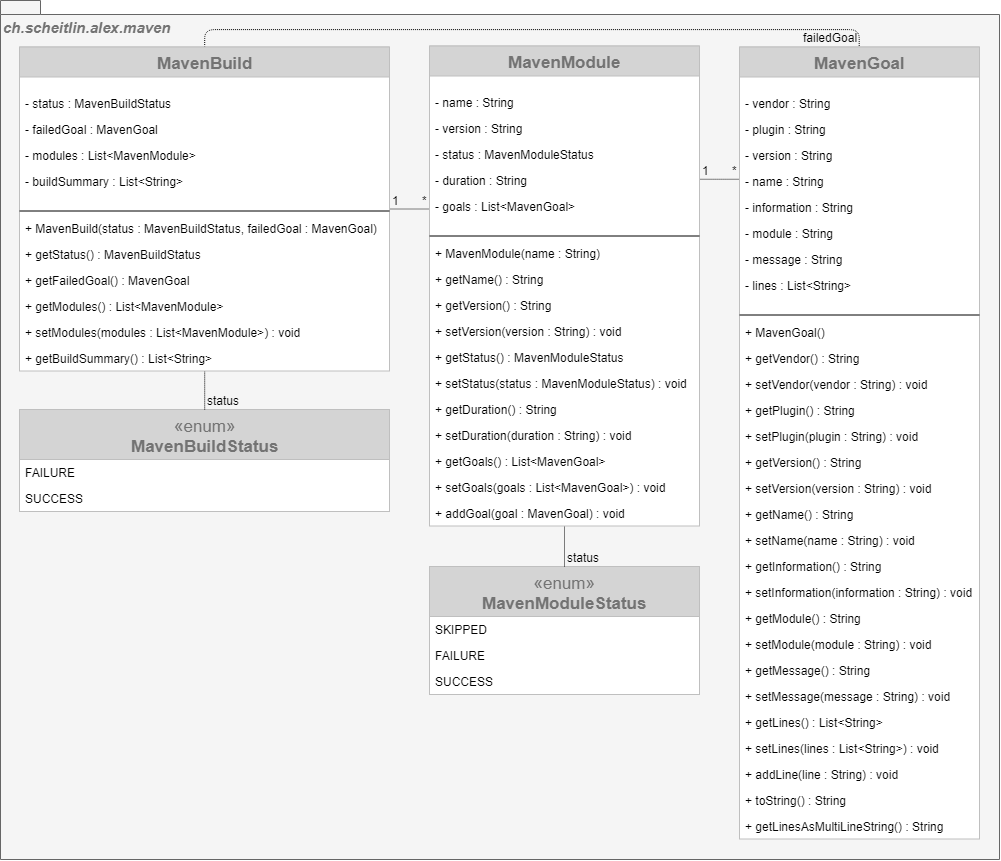
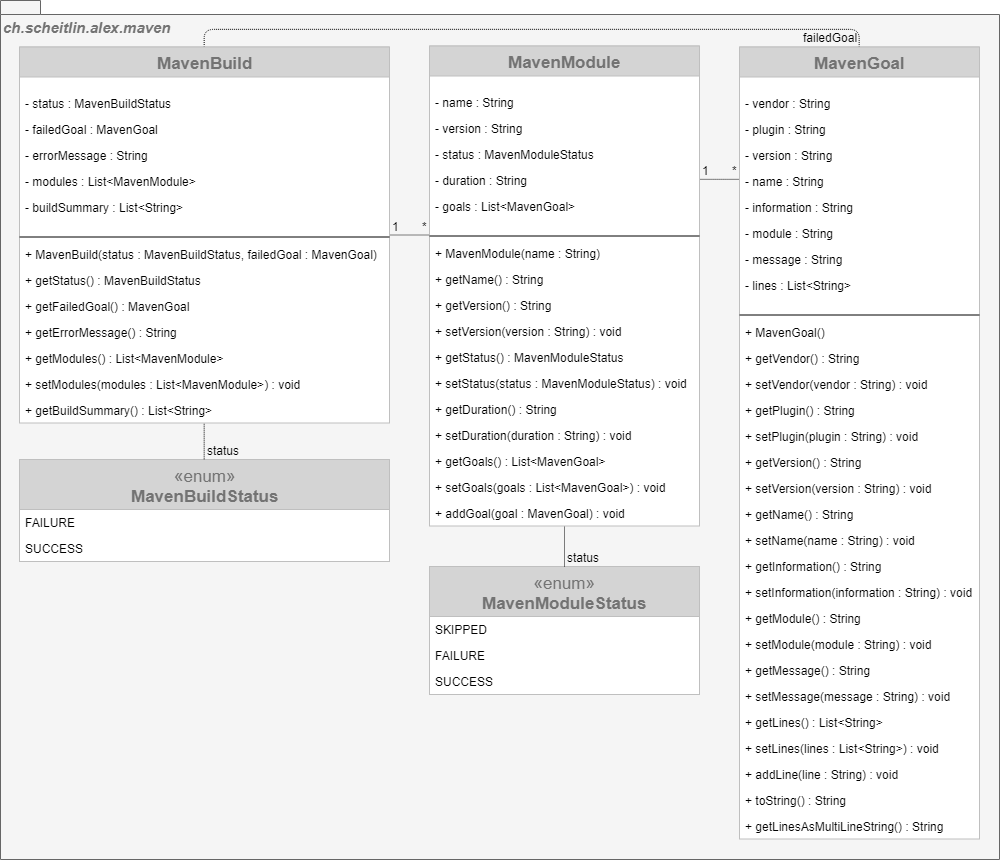
Add field for error message to MavenBuild in case of the build fails before a module is built

diff --git a/maven-model/src/test/java/ch/scheitlin/alex/maven/MavenBuildTest.java b/maven-model/src/test/java/ch/scheitlin/alex/maven/MavenBuildTest.java
@@ -14,7 +14,7 @@ public class MavenBuildTest {
         MavenBuildStatus expectedStatus = MavenBuildStatus.SUCCESS;
 
         // allocate test objects
-        MavenBuild mavenBuild = new MavenBuild(expectedStatus, null, null);
+        MavenBuild mavenBuild = new MavenBuild(expectedStatus, null, null,null);
 
         // execute method to be tested
         MavenBuildStatus actualStatus = mavenBuild.getStatus();
@@ -29,7 +29,7 @@ public class MavenBuildTest {
         MavenGoal expectedFailedGoal = new MavenGoal();
 
         // allocate test objects
-        MavenBuild mavenBuild = new MavenBuild(null, expectedFailedGoal, null);
+        MavenBuild mavenBuild = new MavenBuild(null, expectedFailedGoal, null, null);
 
         // execute method to be tested
         MavenGoal actualFailedGoal = mavenBuild.getFailedGoal();
@@ -39,12 +39,28 @@ public class MavenBuildTest {
     }
 
     @Test
+    public void getErrorMessage() {
+        // assign variables with test data
+        String expectedErrorMessage = "Error Message";
+
+        // allocate test objects
+        MavenBuild mavenBuild = new MavenBuild(null, null, expectedErrorMessage, null);
+
+        // execute method to be tested
+        String actualErrorMessage = mavenBuild.getErrorMessage();
+
+        // assert result
+        Assert.assertEquals(expectedErrorMessage, actualErrorMessage);
+
+    }
+
+    @Test
     public void setAndGetModules() {
         // assign variables with test data
         List<MavenModule> expectedModules = new ArrayList<MavenModule>();
 
         // allocate test objects
-        MavenBuild mavenBuild = new MavenBuild(null, null, null);
+        MavenBuild mavenBuild = new MavenBuild(null, null, null, null);
         mavenBuild.setModules(expectedModules);
 
         // execute method to be tested
@@ -63,7 +79,7 @@ public class MavenBuildTest {
         expectedBuildSummary.add(line2);
 
         // allocate test objects
-        MavenBuild mavenBuild = new MavenBuild(null, null, expectedBuildSummary);
+        MavenBuild mavenBuild = new MavenBuild(null, null, null, expectedBuildSummary);
 
         // execute method to be tested
         List<String> actualBuildSummary = mavenBuild.getBuildSummary();

diff --git a/maven-model/src/main/java/ch/scheitlin/alex/maven/MavenBuild.java b/maven-model/src/main/java/ch/scheitlin/alex/maven/MavenBuild.java
@@ -17,6 +17,13 @@ public class MavenBuild {
     private MavenGoal failedGoal;
 
     /**
+     * <p>The error message if the build failed but no goal failed.</p>
+     * <p>This might be the case if the build fails before any module is built (e.g. 'Could not resolve dependencies').
+     * </p>
+     */
+    private String errorMessage;
+
+    /**
      * The modules of the maven build.
      */
     private List<MavenModule> modules;
@@ -31,11 +38,13 @@ public class MavenBuild {
      *
      * @param status       the build status of the maven build
      * @param failedGoal   the failed goal of the maven build if the build failed (else {@code null}
+     * @param errorMessage the error message if the build failed and no module was built yet (else {@code null}
      * @param buildSummary the build summary section at the end of the maven build log
      */
-    public MavenBuild(MavenBuildStatus status, MavenGoal failedGoal, List<String> buildSummary) {
+    public MavenBuild(MavenBuildStatus status, MavenGoal failedGoal, String errorMessage, List<String> buildSummary) {
         this.status = status;
         this.failedGoal = failedGoal;
+        this.errorMessage = errorMessage;
         this.buildSummary = buildSummary;
     }
 
@@ -55,6 +64,15 @@ public class MavenBuild {
      */
     public MavenGoal getFailedGoal() {
         return this.failedGoal;
+    }
+
+    /**
+     * Gets the error message of the maven build.
+     *
+     * @return the error message if the build failed but no goal failed or {@code null}
+     */
+    public String getErrorMessage() {
+        return this.errorMessage;
     }
 
     /**

diff --git a/maven-model/README.md b/maven-model/README.md
@@ -4,6 +4,10 @@
 
 A `MavenBuild` consists of at least one `MavenModule` which has at least one `MavenGoal`. The log for every executed goal is stored within the a `MavenGoal`.
 
+If the maven build failed there should either be:
+- an error message (the build failed before a module was built, thus no go was executed - e.g. 'Could not resolve dependencies')
+- a failed goal (during the build of a module one of the goals fails - e.g. compilation error)
+
 # UML Class Diagram
 
 ![Maven Model](assets/maven-model.png)
